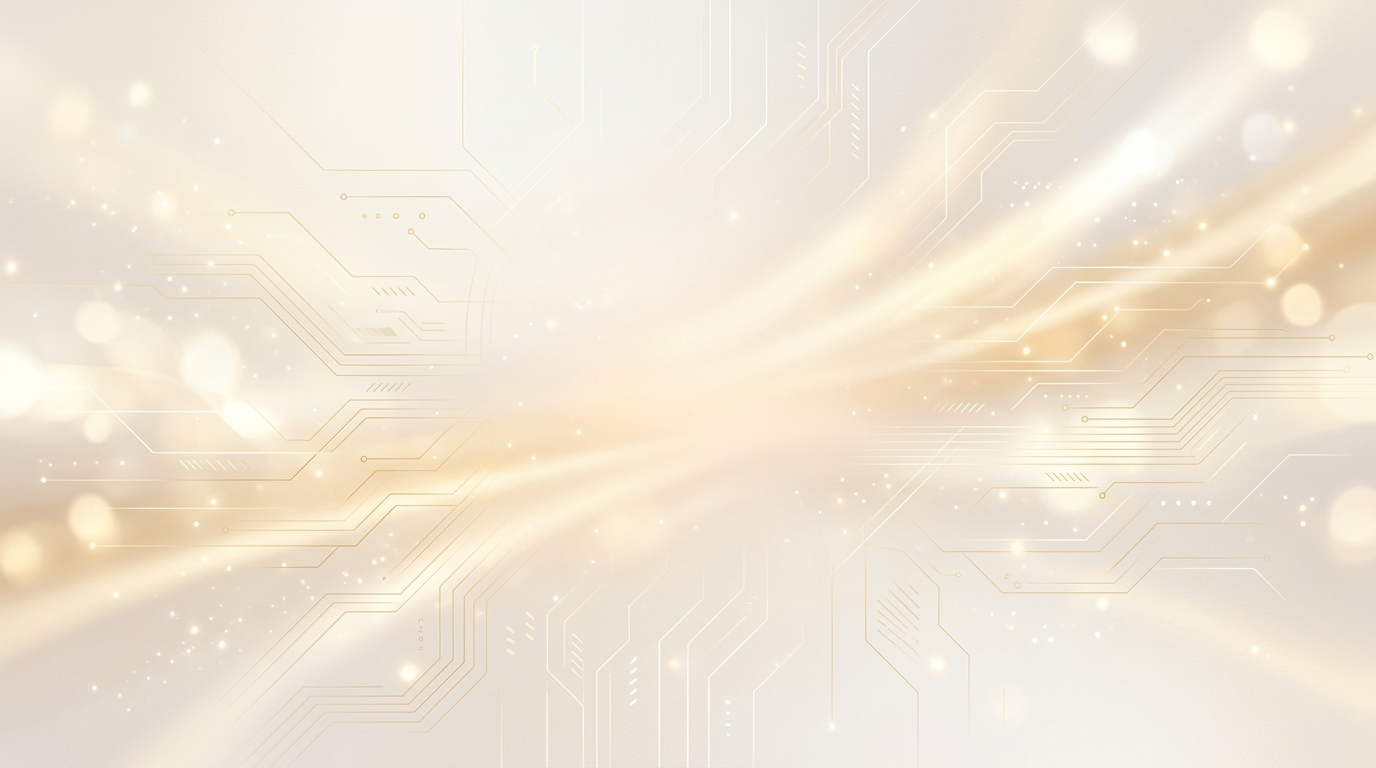
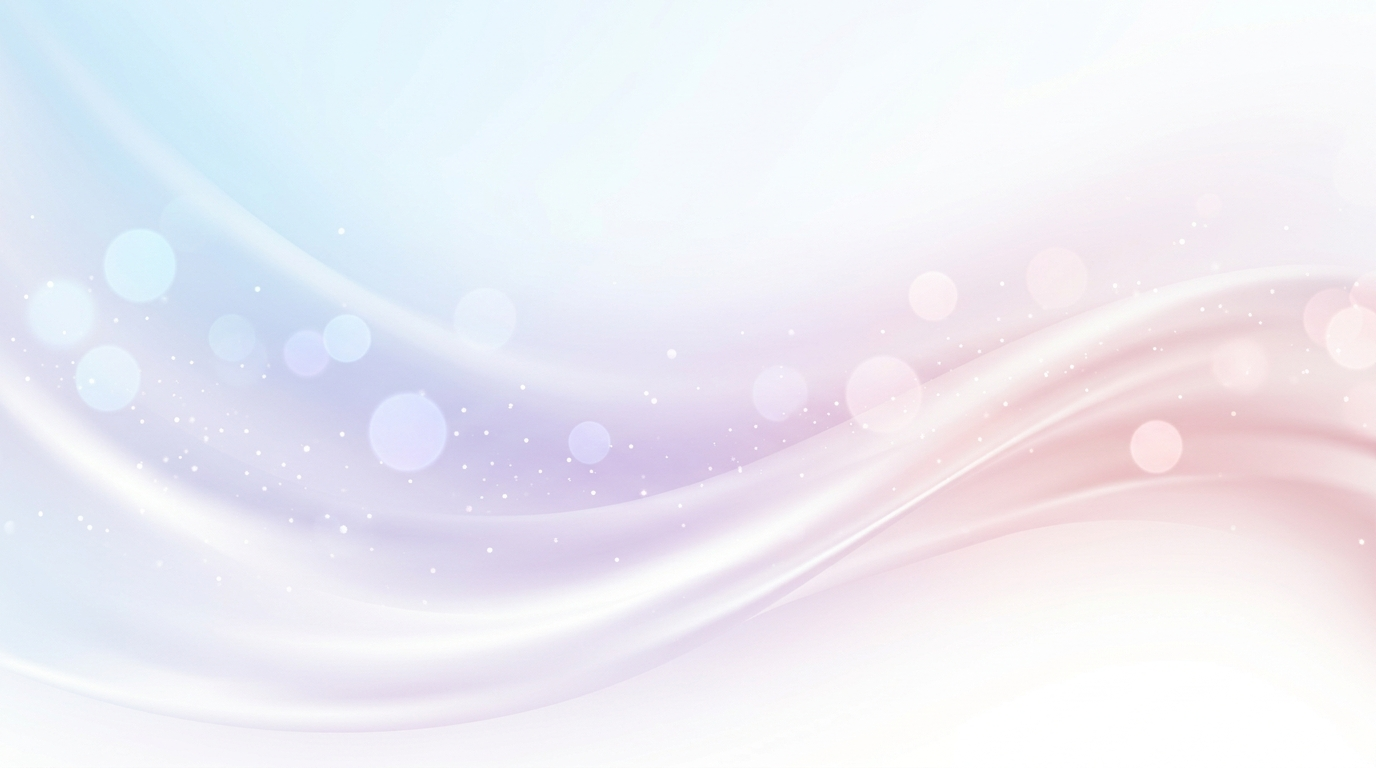
Hero background: light pastel blue/lavender/rose gold image, updated dark overlay for text readability

diff --git a/src/routes/index.tsx b/src/routes/index.tsx
@@ -64,11 +64,11 @@ function Home() {
           backgroundPosition: "center top",
         }}
       >
-        {/* Warm overlay so text stays sharp over the light image */}
-        <div className="absolute inset-0 z-0" style={{background: "linear-gradient(110deg, rgba(10,8,5,0.82) 0%, rgba(20,14,6,0.75) 45%, rgba(30,20,5,0.35) 100%)"}} />
-        <div className="absolute inset-0 z-0" style={{background: "linear-gradient(to top, rgba(10,8,5,0.7) 0%, transparent 55%)"}} />
+        {/* Strong dark overlay on left (text side), fades right (image side) */}
+        <div className="absolute inset-0 z-0" style={{background: "linear-gradient(105deg, rgba(8,6,20,0.88) 0%, rgba(15,10,30,0.80) 40%, rgba(20,15,35,0.40) 70%, rgba(20,15,35,0.15) 100%)", backdropFilter: "blur(0px)"}} />
+        <div className="absolute inset-0 z-0" style={{background: "linear-gradient(to top, rgba(8,6,20,0.65) 0%, transparent 50%)"}}/>
 
-        {/* Animated rings — now warm gold to match image */}
+        {/* Animated rings — warm gold */}
         <div className="pointer-events-none absolute inset-0 flex items-center justify-center overflow-hidden z-0">
           <div className="relative flex items-center justify-center w-[500px] h-[500px] sm:w-[750px] sm:h-[750px]">
             {/* Outer Moving Glowing Ring 1 */}
